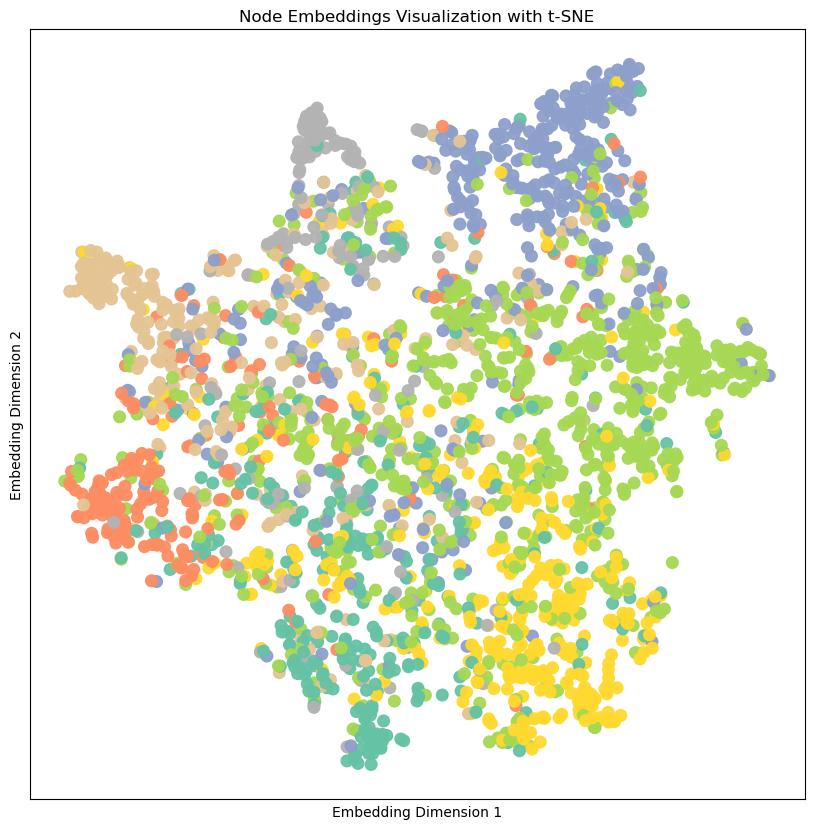
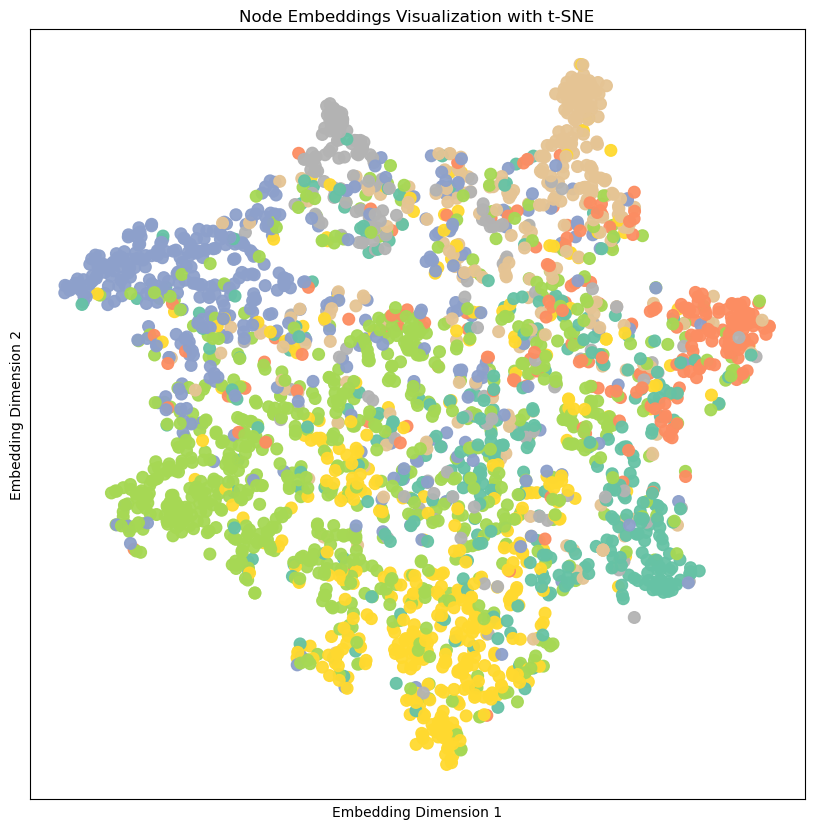
[GNN] Node Embeddings
Add node embeddings visualization.
Also update some of the network arch

diff --git a/GNN/node_classification/main.py b/GNN/node_classification/main.py
@@ -116,34 +116,84 @@ class ModelType(Enum):
     def has_value(cls, value):
         return value in cls._value2member_map_
 
+# define an enum for train, test or validation dataset split
+class DatasetSplit(Enum):
+    TRAIN = "train"
+    TEST = "test"
+    VALIDATION = "validation"
+
+    @classmethod
+    def has_value(cls, value):
+        return value in cls._value2member_map_
+
 class MLP(torch.nn.Module):
     """
     A simple Multi-Layer Perceptron (MLP) model for node classification.
     """
 
-    def __init__(self, num_features, hidden_channels, num_classes):
+    def __init__(self, num_features: int, hidden_channels: int, num_classes: int, n_layers: int = 2):
+        """
+        Constructor for the MLP model.
+
+        @param num_features: int; The number of input features per node (required).
+        @param hidden_channels: int; The number of hidden channels (neurons) in the MLP layer (required).
+        @param num_classes: int; The number of output classes for classification (required).
+        @param n_layers: int; The number of layers in the MLP (default is 2). (Optional)
+
+        @return: None
+        """
+        # validate the parameters
+        assert isinstance(num_features, int) and num_features > 0
+        assert isinstance(hidden_channels, int) and hidden_channels > 0
+        assert isinstance(num_classes, int) and num_classes > 0
+        assert isinstance(n_layers, int) and n_layers >= 2, "n_layers must be at least 2 for MLP"
+
+        # set the number of layers to class variable
+        self.n_layers = n_layers
+
         # call the parent class constructor
         super().__init__()
 
         # set torch manual seed for reproducibility
         torch.manual_seed(12345)
 
+        # list of linear layers
+        self.lins = list()
+
         # First Linear layer
         self.lin1 = Linear(num_features, hidden_channels)
+        self.lins.append(self.lin1)
 
-        # Second Linear layer
-        self.lin2 = Linear(hidden_channels, num_classes)
+        # loop through n-2 layers, each with hidden_channels -> hidden_channels
+        for _ in range(n_layers - 2):
+            self.lins.append(Linear(hidden_channels, hidden_channels))
+
+        # Final Linear layer
+        self.lin_end = Linear(hidden_channels, num_classes)
+        self.lins.append(self.lin_end)
 
     def forward(self, x):
-        # Apply the first linear layer followed by ReLU activation
-        x = self.lin1(x)
-        x = x.relu()
+        """
+        Forward pass of the MLP model.
 
-        # Apply dropout for regularization
-        x = F.dropout(x, p=0.5, training=self.training)
+        @param x: torch.Tensor; Node feature matrix of shape [num_nodes, num_features] (required).
 
-        # Apply the second linear layer
-        x = self.lin2(x)
+        @return x: torch.Tensor; The output logits for each node of shape [num_nodes, num_classes].
+        """
+        # loop through all linear layers except the last one
+        # apply each linear layer followed by ReLU activation, followed by dropout
+        for i in range(self.n_layers - 1):
+            # apply the ith linear layer
+            x = self.lins[i](x)
+
+            # apply ReLU activation
+            x = F.relu(x)
+
+            # Apply dropout for regularization
+            x = F.dropout(x, p=0.5, training=self.training)
+
+        # Apply the last linear layer
+        x = self.lins[-1](x)
         return x
 
 class GCN(torch.nn.Module):
@@ -151,27 +201,46 @@ class GCN(torch.nn.Module):
     A simple Graph Convolutional Network (GCN) model for node classification.
     """
 
-    def __init__(self, num_features, hidden_channels, num_classes):
+    def __init__(self, num_features: int, hidden_channels: int, num_classes: int, n_layers: int = 2):
         """
         Constructor for the GCN model.
 
-        @param num_features: The number of input features per node (required).
-        @param hidden_channels: The number of hidden channels (neurons) in the GCN layer (required).
-        @param num_classes: The number of output classes for classification (required).
+        @param num_features: int; The number of input features per node (required).
+        @param hidden_channels: int; The number of hidden channels (neurons) in the GCN layer (required).
+        @param num_classes: int; The number of output classes for classification (required).
+        @param n_layers: int; The number of layers in the GCN (default is 2). (Optional)
 
         @return: None
         """
+        # validate the parameters
+        assert isinstance(num_features, int) and num_features > 0
+        assert isinstance(hidden_channels, int) and hidden_channels > 0
+        assert isinstance(num_classes, int) and num_classes > 0
+        assert isinstance(n_layers, int) and n_layers >= 2, "n_layers must be at least 2 for GCN"
+
+        # set the number of layers to class variable
+        self.n_layers = n_layers
+
         # call the parent class constructor
         super().__init__()
 
         # set torch manual seed for reproducibility
         torch.manual_seed(1234567)
 
+        # list of graph convolutional layers
+        self.convs = list()
+
         # First graph convolutional layer
         self.conv1 = GCNConv(num_features, hidden_channels)
+        self.convs.append(self.conv1)
 
-        # Secong graph convolutional layer
-        self.conv2 = GCNConv(hidden_channels, num_classes)
+        # loop through n-2 layers, each with hidden_channels -> hidden_channels
+        for _ in range(n_layers - 2):
+            self.convs.append(GCNConv(hidden_channels, hidden_channels))
+
+        # Last graph convolutional layer
+        self.conv_end = GCNConv(hidden_channels, num_classes)
+        self.convs.append(self.conv_end)
 
     def forward(self, x, edge_index):
         """
@@ -182,13 +251,20 @@ class GCN(torch.nn.Module):
 
         @return x: The output logits for each node of shape [num_nodes, num_classes].
         """
-        # First graph convolution layer with ReLU activation and Dropout for regularization
-        x = self.conv1(x, edge_index)
-        x = x.relu()
-        x = F.dropout(x, p=0.5, training=self.training)
+        # loop through all graph convolutional layers except the last one
+        # Apply each graph convolution layer with ReLU activation and Dropout for regularization
+        for i in range(self.n_layers - 1):
+            # apply the ith graph convolutional layer
+            x = self.convs[i](x, edge_index)
 
-        # Second graph convolution layer
-        x = self.conv2(x, edge_index)
+            # apply ReLU activation
+            x = x.relu()
+
+            # Apply dropout for regularization
+            x = F.dropout(x, p=0.5, training=self.training)
+
+        # Final graph convolution layer
+        x = self.convs[-1](x, edge_index)
         return x
 
 class GAT(torch.nn.Module):
@@ -198,29 +274,49 @@ class GAT(torch.nn.Module):
     The default is to use 8 attention heads in the first layer and 1 head in the second layer.
     Hidden channels dimension is 8 per head by default.
     """
-    def __init__(self, num_features, num_classes, hidden_channels_per_head: int = 8, n_heads: int = 8):
+    def __init__(self, num_features: int, num_classes: int, hidden_channels_per_head: int = 8, n_heads: int = 8, n_layers: int = 2):
         """
         Constructor for the GAT model.
 
-        @param num_features: The number of input features per node (required).
-        @param num_classes: The number of output classes for classification (required).
+        @param num_features: int; The number of input features per node (required).
+        @param num_classes: int; The number of output classes for classification (required).
         @param hidden_channels_per_head: int; The number of hidden channels (neurons) in the GAT layer per attention head
                                         (default is 8). (Optional).
         @param n_heads: int; Number of attention heads (default is 8). (Optional).
+        @param n_layers: int; The number of layers in the GAT (default is 2). (Optional)
 
         @return: None
         """
+        # validate the parameters
+        assert isinstance(num_features, int) and num_features > 0
+        assert isinstance(hidden_channels_per_head, int) and hidden_channels_per_head > 0
+        assert isinstance(num_classes, int) and num_classes > 0
+        assert isinstance(n_heads, int) and n_heads > 0
+        assert isinstance(n_layers, int) and n_layers >= 2, "n_layers must be at least 2 for GCN"
+
+        # set the number of layers to class variable
+        self.n_layers = n_layers
+
         # Call the parent class constructor
         super().__init__()
 
         # set torch manual seed for reproducibility
         torch.manual_seed(1234567)
 
+        # list of graph attention layers
+        self.convs = list()
+
         # First graph attention layer
         self.conv1 = GATConv(num_features, hidden_channels_per_head, heads=n_heads, dropout=0.6)
+        self.convs.append(self.conv1)
 
-        # Second graph attention layer
-        self.conv2 = GATConv(hidden_channels_per_head * n_heads, num_classes, heads=1, dropout=0.6)
+        # loop through n-2 layers, each with hidden_channels_per_head * n_heads -> hidden_channels_per_head * n_heads
+        for _ in range(n_layers - 2):
+            self.convs.append(GATConv(hidden_channels_per_head * n_heads, hidden_channels_per_head, heads=n_heads, dropout=0.6))
+
+        # Last graph attention layer
+        self.conv_end = GATConv(hidden_channels_per_head * n_heads, num_classes, heads=1, dropout=0.6)
+        self.convs.append(self.conv_end)
 
     def forward(self, x, edge_index):
         """
@@ -231,15 +327,16 @@ class GAT(torch.nn.Module):
 
         @return x: The output logits for each node of shape [num_nodes, num_classes].
         """
-        # First graph attention layer with ELU activation and Dropout for regularization
-        # Dropout is applied before the first layer only
-        x = F.dropout(x, p=0.6, training=self.training)
-        x = self.conv1(x, edge_index)
-        x = F.elu(x)
+        # Apply each graph attention layer with ELU activation and Dropout for regularization
+        # Dropout is applied before each layer
+        for i in range(self.n_layers - 1):
+            x = F.dropout(x, p=0.6, training=self.training)
+            x = self.convs[i](x, edge_index)
+            x = F.elu(x)
 
-        # Second graph attention layer is applied after dropout
+        # Final graph attention layer is applied after dropout
         x = F.dropout(x, p=0.6, training=self.training)
-        x = self.conv2(x, edge_index)
+        x = self.convs[-1](x, edge_index)
         return x
 
 def train(model, data, optimizer, criterion, device, mtype: ModelType = ModelType.MLP):
@@ -280,7 +377,7 @@ def train(model, data, optimizer, criterion, device, mtype: ModelType = ModelTyp
     optimizer.step()
     return loss
 
-def test(model, data, device, mtype: ModelType = ModelType.MLP):
+def test(model, data, device, mtype: ModelType = ModelType.MLP, split: DatasetSplit = DatasetSplit.TEST):
     """
     A function to evaluate the model on the test set.
 
@@ -289,9 +386,13 @@ def test(model, data, device, mtype: ModelType = ModelType.MLP):
     @param device: The device (CPU or GPU) to perform computations on (required).
     @param mtype: Model type (default is MLP).
                     This can be used to handle any model-specific logic if needed. (Optional)
+    @param split: DatasetSplit enum; value indicating whether to evaluate on the test or validation set. (Optional)
 
-    @return test_acc: The accuracy of the model on the test set.
+    @return acc: The accuracy of the model on the test/validation set.
     """
+    # assert that the split is either TEST or VALIDATION
+    assert split in [DatasetSplit.TEST, DatasetSplit.VALIDATION], f"Invalid split type. Must be either {DatasetSplit.TEST.value} or {DatasetSplit.VALIDATION.value}."
+
     # set the model to evaluation mode
     model.eval()
 
@@ -305,13 +406,20 @@ def test(model, data, device, mtype: ModelType = ModelType.MLP):
         # get the predicted class with the highest probability by taking the argmax of the output logits
         pred = out.argmax(dim=1)
 
-        # check against ground-truth labels for the test nodes only
-        test_correct = pred[data.test_mask] == data.y[data.test_mask].to(device)
+        if split == DatasetSplit.TEST:
+            # check against ground-truth labels for the test nodes only
+            correct = pred[data.test_mask] == data.y[data.test_mask].to(device)
 
-        # compute ratio of correct predictions to total test nodes
-        test_acc = int(test_correct.sum()) / int(data.test_mask.sum())
+            # compute ratio of correct predictions to total test nodes
+            acc = int(correct.sum()) / int(data.test_mask.sum())
+        else:
+            # check against ground-truth labels for the validation nodes only
+            correct = pred[data.val_mask] == data.y[data.val_mask].to(device)
 
-    return test_acc
+            # compute ratio of correct predictions to total validation nodes
+            acc = int(correct.sum()) / int(data.val_mask.sum())
+
+    return acc
 
 def train_test(data, device, num_features, num_classes, mtype: ModelType = ModelType.MLP):
     """
